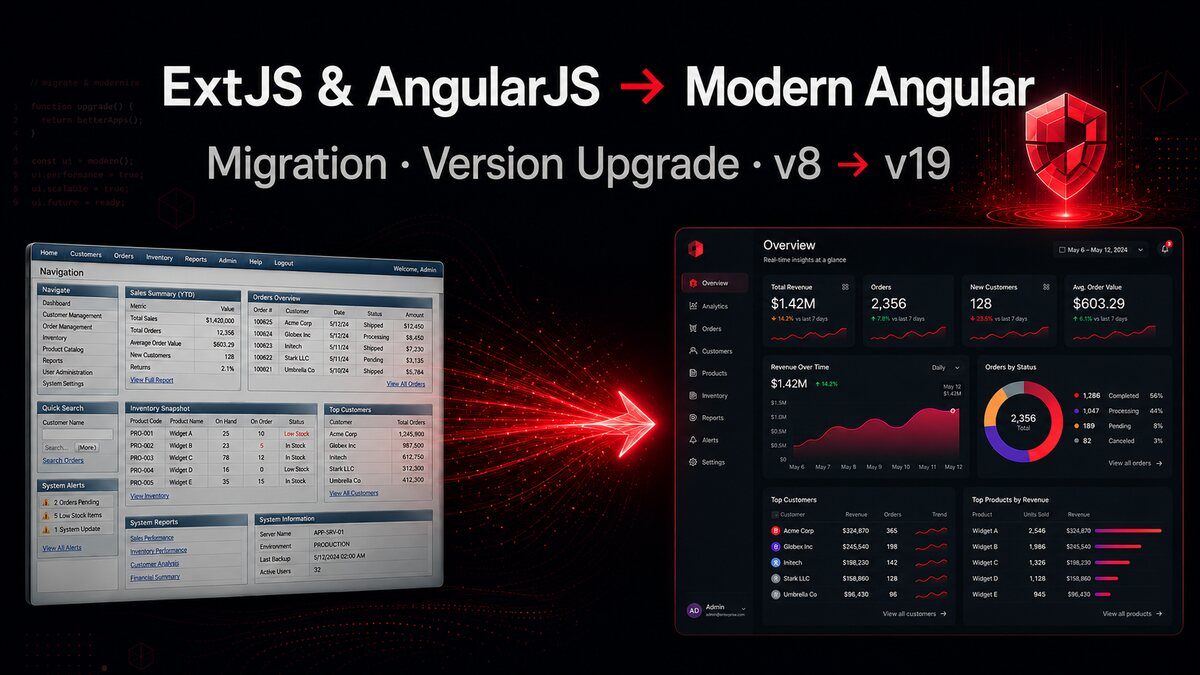
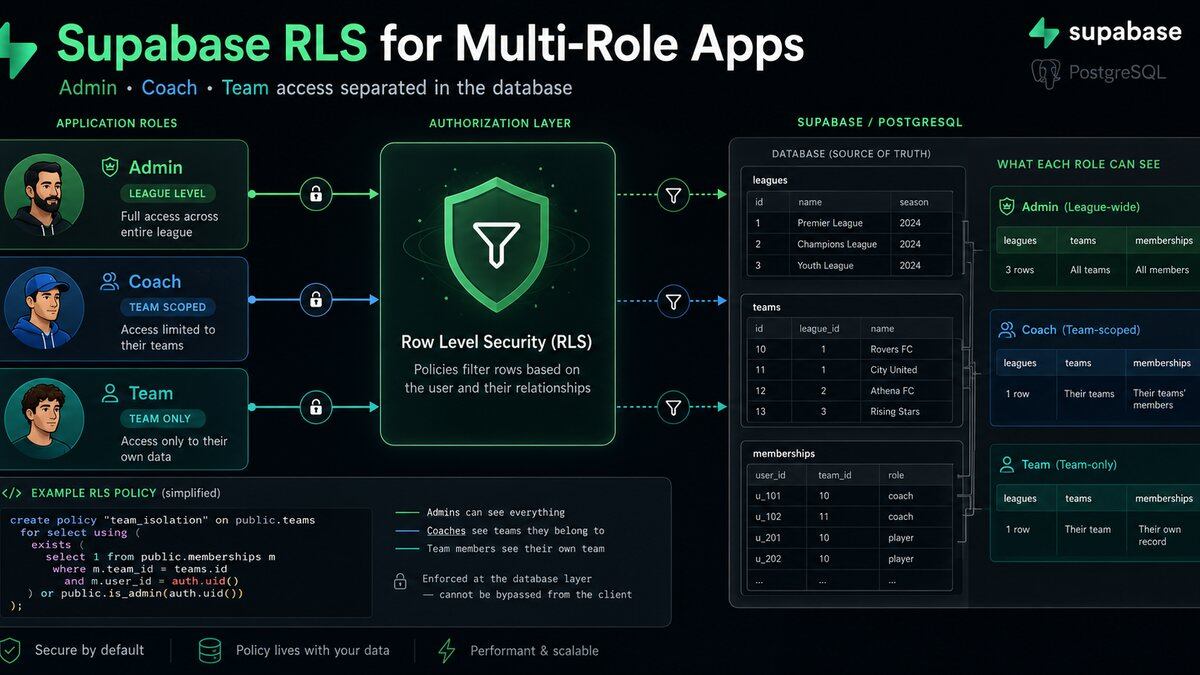
Use final Supabase RLS blog image

diff --git a/blog/index.html b/blog/index.html
@@ -101,7 +101,7 @@
             <div class="grid gap-8 sm:grid-cols-2 lg:grid-cols-3">
               <a href="/blog/supabase-rls-multi-role-apps.html"
                 class="group block bg-white/5 rounded-2xl border border-gray-700 overflow-hidden transition hover:-translate-y-1 hover:border-primary">
-                <img src="/blog/images/supabase-rls-multi-role-apps.jpg" alt="ExtJS and AngularJS enterprise dashboard migrating to a modern Angular interface"
+                <img src="/blog/images/supabase-rls-multi-role-apps.jpg" alt="Supabase Row Level Security diagram separating admin, coach, and team database access"
                   width="1200" height="675" loading="lazy" class="w-full aspect-video object-cover" />
                 <div class="p-5">
                   <p class="text-primary text-xs font-semibold mb-2">July 17, 2026 · 5 min read</p>

diff --git a/index.html b/index.html
@@ -734,7 +734,7 @@ across the GCC.</h3>
         <!-- HOME_BLOG_START -->
         <a href="/blog/supabase-rls-multi-role-apps.html"
           class="group block bg-white/5 rounded-2xl border border-gray-700 overflow-hidden transition hover:-translate-y-1 hover:border-primary">
-          <img src="/blog/images/supabase-rls-multi-role-apps.jpg" alt="ExtJS and AngularJS enterprise dashboard migrating to a modern Angular interface"
+          <img src="/blog/images/supabase-rls-multi-role-apps.jpg" alt="Supabase Row Level Security diagram separating admin, coach, and team database access"
             width="1200" height="675" loading="lazy" class="w-full aspect-video object-cover" />
           <div class="p-5">
             <p class="text-primary text-xs font-semibold mb-2">July 17, 2026 · 5 min read</p>

diff --git a/blog/supabase-rls-multi-role-apps.html b/blog/supabase-rls-multi-role-apps.html
@@ -101,7 +101,7 @@
             <p class="text-primary text-sm font-semibold mb-3">July 17, 2026 · 5 min read</p>
             <h1 class="text-3xl md:text-5xl font-bold mb-6 leading-tight">Supabase RLS for Multi-Role Apps: What I Learned</h1>
 
-            <img src="images/supabase-rls-multi-role-apps.jpg" alt="ExtJS and AngularJS enterprise dashboard migrating to a modern Angular interface" width="1200" height="675" loading="eager"
+            <img src="images/supabase-rls-multi-role-apps.jpg" alt="Supabase Row Level Security diagram separating admin, coach, and team database access" width="1200" height="675" loading="eager"
                 class="w-full aspect-video object-cover rounded-2xl border border-gray-700 mb-10" />
 
             <div class="prose prose-invert prose-lg max-w-none
